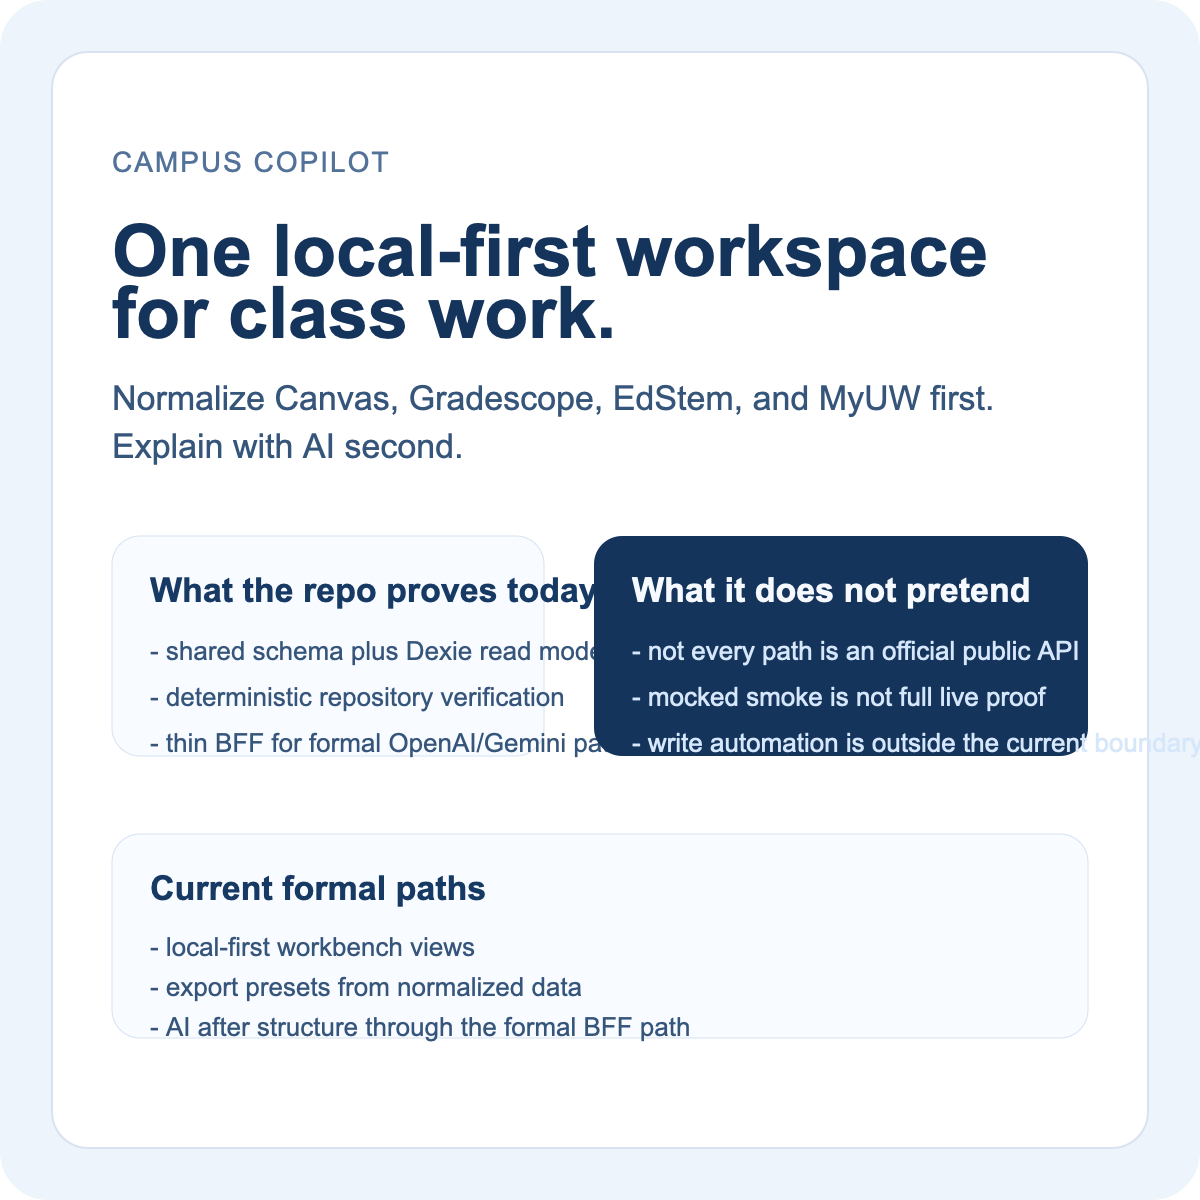
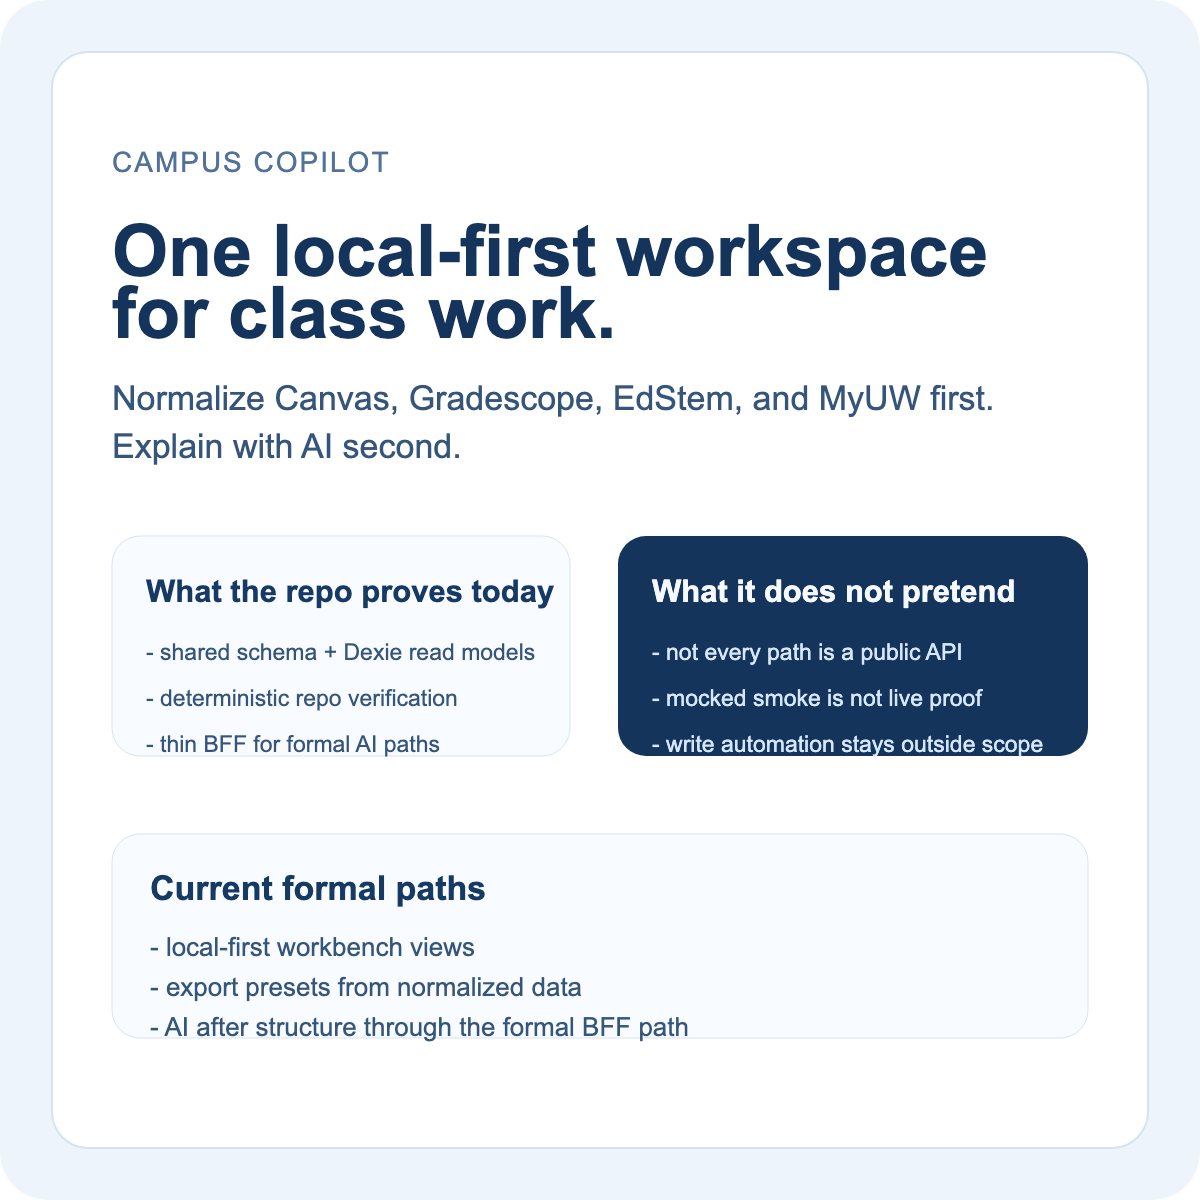
fix(extension): finalize bilingual public assets

Changed region(s): [[0.1233, 0.4317, 0.9558, 0.6475], [0.1233, 0.8325, 0.5858, 0.8633], [0.2467, 0.3392, 0.37, 0.4008]]

diff --git a/apps/extension/src/i18n.ts b/apps/extension/src/i18n.ts
@@ -40,8 +40,14 @@ type UiText = {
     currentView: string;
   };
   hero: {
+    sidepanelEyebrow: string;
+    sidepanelTitle: string;
     sidepanelDescription: string;
+    popupEyebrow: string;
+    popupTitle: string;
     popupDescription: string;
+    optionsEyebrow: string;
+    optionsTitle: string;
     optionsDescription: string;
   };
   meta: {
@@ -88,6 +94,9 @@ type UiText = {
   diagnostics: {
     title: string;
     description: string;
+    nextActions: string;
+    readyToContinue: string;
+    blockedByEnvironmentOrRuntime: string;
     noBlockers: string;
     exportJson: string;
     reportReady: string;
@@ -95,6 +104,9 @@ type UiText = {
   priorityAlerts: {
     title: string;
     description: string;
+    critical: string;
+    high: string;
+    medium: string;
     none: string;
   };
   recentUpdates: {
@@ -206,10 +218,16 @@ const TEXT: Record<ResolvedUiLanguage, UiText> = {
       currentView: 'Export current view',
     },
     hero: {
+      sidepanelEyebrow: 'Campus Copilot Sidepanel',
+      sidepanelTitle: 'Academic workbench',
       sidepanelDescription:
         'This is not an empty chat box. It first turns four sites into one desk: what is happening today, what is blocked, and what changed recently.',
+      popupEyebrow: 'Campus Copilot Popup',
+      popupTitle: 'Quick pulse',
       popupDescription:
         'Popup stays lightweight and acts like a quick pulse check: sync status, priority counts, and the fastest way into the main workbench.',
+      optionsEyebrow: 'Campus Copilot Options',
+      optionsTitle: 'Connection and runtime controls',
       optionsDescription:
         'This page acts like a control cabinet: site configuration, the AI/BFF entry point, default export format, and boundary disclosure should all stay honest here.',
     },
@@ -257,6 +275,9 @@ const TEXT: Record<ResolvedUiLanguage, UiText> = {
     diagnostics: {
       title: 'Diagnostics',
       description: 'This area acts like a runtime control tower. It tells you what is actually blocked, not how many features exist.',
+      nextActions: 'Next Actions',
+      readyToContinue: 'ready_to_continue',
+      blockedByEnvironmentOrRuntime: 'blocked_by_environment_or_runtime',
       noBlockers: 'No obvious runtime blockers are active right now, so deeper validation can continue.',
       exportJson: 'Export diagnostics JSON',
       reportReady: 'campus-copilot-diagnostics.json is ready to download.',
@@ -264,6 +285,9 @@ const TEXT: Record<ResolvedUiLanguage, UiText> = {
     priorityAlerts: {
       title: 'Priority Alerts',
       description: 'This behaves like an on-call board. The point is not volume, but which items need attention first.',
+      critical: 'Critical',
+      high: 'High',
+      medium: 'Medium',
       none: 'No alerts exist yet. Sync at least one site so the system has real facts to rank.',
     },
     recentUpdates: {
@@ -381,8 +405,14 @@ const TEXT: Record<ResolvedUiLanguage, UiText> = {
       currentView: '导出当前视图',
     },
     hero: {
+      sidepanelEyebrow: 'Campus Copilot 侧边栏',
+      sidepanelTitle: '学习工作台',
       sidepanelDescription: '这里不是空聊天框，而是先把四个站点整理成一张桌面：今天有什么、哪里卡住了、哪些变化还没看。',
+      popupEyebrow: 'Campus Copilot 弹窗',
+      popupTitle: '快速体温计',
       popupDescription: 'Popup 保持轻量，负责给你一个很快的体温计：有没有同步、有没有高优先级数字、要不要立刻打开主工作台。',
+      optionsEyebrow: 'Campus Copilot 设置',
+      optionsTitle: '连接与运行时控制',
       optionsDescription: '这页像控制柜：站点配置、AI/BFF 入口、默认导出格式和边界披露，都应该在这里说真话。',
     },
     meta: {
@@ -409,7 +439,7 @@ const TEXT: Record<ResolvedUiLanguage, UiText> = {
       onlyUnseen: '仅看未查看更新',
     },
     todaySnapshot: {
-      title: 'Today Snapshot',
+      title: '今日快照',
       description: '这里像桌面上的今日便签。先告诉你今天有没有急事，再决定要不要继续钻进细节。',
       currentTodo: '当前待办',
       dueSoon: '即将到期',
@@ -417,7 +447,7 @@ const TEXT: Record<ResolvedUiLanguage, UiText> = {
       unseenInView: '当前视图未查看',
     },
     quickActions: {
-      title: 'Quick Actions',
+      title: '快捷动作',
       description: '这些按钮像办公桌最顺手的四个抽屉，让你不用绕路就能做高价值动作。',
       syncCurrentSite: (site) => `同步 ${site}`,
       selectSiteBeforeSync: '先选择站点再同步',
@@ -429,17 +459,23 @@ const TEXT: Record<ResolvedUiLanguage, UiText> = {
     diagnostics: {
       title: 'Diagnostics',
       description: '这块像运行时控制塔，不是告诉你“系统很多功能”，而是告诉你“当前真正卡住哪些前置条件”。',
+      nextActions: '下一步动作',
+      readyToContinue: '可继续验证',
+      blockedByEnvironmentOrRuntime: '被环境或运行时阻塞',
       noBlockers: '当前没有明显运行时阻塞，可以继续做更深一层的真实验收。',
       exportJson: '导出诊断 JSON',
       reportReady: 'campus-copilot-diagnostics.json 已准备下载。',
     },
     priorityAlerts: {
-      title: 'Priority Alerts',
+      title: '优先提醒',
       description: '这块像值班表，重点不是“条目多”，而是“哪几条现在最该先看”。',
+      critical: '严重',
+      high: '高',
+      medium: '中',
       none: '还没有生成提醒。先同步一个站点，系统才有事实可判断。',
     },
     recentUpdates: {
-      title: 'Recent Updates',
+      title: '最近更新',
       description: '这块回答“最近发生了什么”，而且允许你只盯住还没处理过的变化。',
       none: '当前筛选下还没有可展示的更新流。',
     },
@@ -450,7 +486,7 @@ const TEXT: Record<ResolvedUiLanguage, UiText> = {
       dueAt: (value) => `截止 ${value}`,
     },
     siteStatus: {
-      title: 'Site Status',
+      title: '站点状态',
       description: '这里像控制塔，专门讲真话：哪站已经 live，哪站只是部分成功，哪站现在卡在配置或上下文。',
       resourceGaps: (value) => `仍有资源缺口：${value}`,
       syncButton: (site) => `同步 ${site}`,
@@ -477,7 +513,7 @@ const TEXT: Record<ResolvedUiLanguage, UiText> = {
       currentView: '当前视图',
     },
     options: {
-      siteConfiguration: 'Site configuration',
+      siteConfiguration: '站点配置',
       siteConfigurationDescription:
         'EdStem 会优先尝试从当前课程标签页自动推导 threads 路径；只有自动推导不够时，才需要你手动覆盖。unread / recent activity 路径都是可选项。',
       threadsPath: 'EdStem threads path',
@@ -485,13 +521,13 @@ const TEXT: Record<ResolvedUiLanguage, UiText> = {
       unreadPathPlaceholder: '可选：留空表示不额外覆盖 unread 路径',
       recentActivityPath: 'EdStem recent activity path',
       recentActivityPathPlaceholder: '可选：留空表示不额外覆盖 recent activity 路径',
-      aiBffConfiguration: 'AI / BFF configuration',
-      bffBaseUrl: 'BFF base URL',
+      aiBffConfiguration: 'AI / BFF 配置',
+      bffBaseUrl: 'BFF 地址',
       defaultProvider: '默认 Provider',
       refreshBffStatus: '刷新 BFF 状态',
       refreshingBffStatus: '刷新中…',
-      openAiModel: 'OpenAI model',
-      geminiModel: 'Gemini model',
+      openAiModel: 'OpenAI 模型',
+      geminiModel: 'Gemini 模型',
       defaultExportFormat: '默认导出格式',
       saveConfiguration: '保存配置',
       configurationSaved: '配置已保存。',

diff --git a/apps/extension/src/surface-shell.tsx b/apps/extension/src/surface-shell.tsx
@@ -898,13 +898,13 @@ export function SurfaceShell({ surface }: { surface: SurfaceKind }) {
                 </label>
                 <div className="surface__actions surface__actions--wrap">
                   <button className="surface__button" disabled={aiPending} onClick={() => void handleAskAi()}>
-                    {aiPending ? 'Asking…' : text.askAi.ask}
+                    {aiPending ? `${text.askAi.ask}…` : text.askAi.ask}
                   </button>
                   <button className="surface__button surface__button--ghost" onClick={() => void browser.runtime.openOptionsPage()}>
                     {text.askAi.configure}
                   </button>
                 </div>
-                {!config.ai.bffBaseUrl ? <p className="surface__feedback">BFF base URL is still missing, so the AI path should fail loudly instead of failing silently.</p> : null}
+                {!config.ai.bffBaseUrl ? <p className="surface__feedback">{text.askAi.missingBffFeedback}</p> : null}
                 {aiError ? <p className="surface__feedback surface__feedback--error">{aiError}</p> : null}
                 {aiAnswer ? <div className="surface__answer">{aiAnswer}</div> : null}
               </article>

diff --git a/apps/extension/tests/extension.smoke.spec.ts b/apps/extension/tests/extension.smoke.spec.ts
@@ -398,7 +398,10 @@ test('switches to Chinese UI and shows partial-success plus site-filter behavior
   await page.goto('/sidepanel.html');
 
   await page.getByRole('button', { name: 'MyUW', exact: true }).click();
-  const syncMyUwButton = page.getByRole('button', { name: '同步 MyUW' }).last();
+  const myUwStatusCard = page
+    .locator('article.surface__item')
+    .filter({ has: page.locator('strong', { hasText: /^MyUW$/ }) });
+  const syncMyUwButton = myUwStatusCard.getByRole('button', { name: '同步 MyUW' });
   await expect(syncMyUwButton).toBeVisible();
   await syncMyUwButton.click();
 
